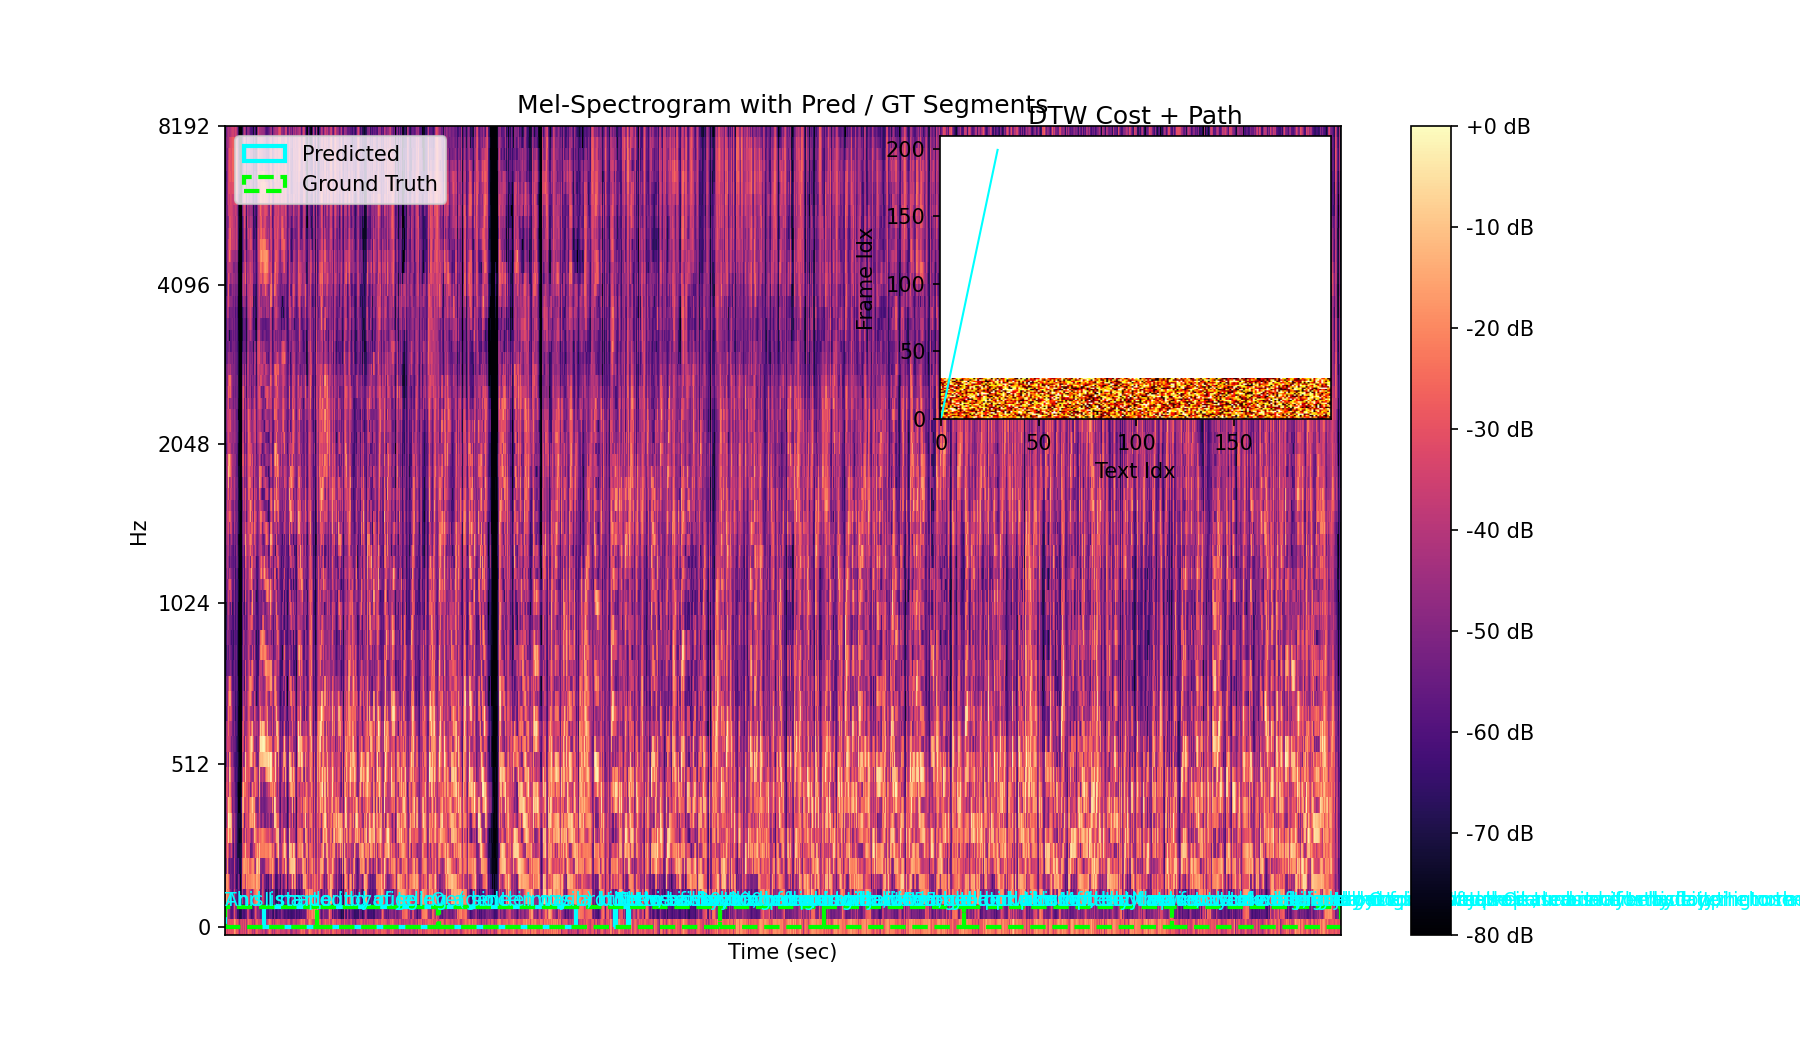
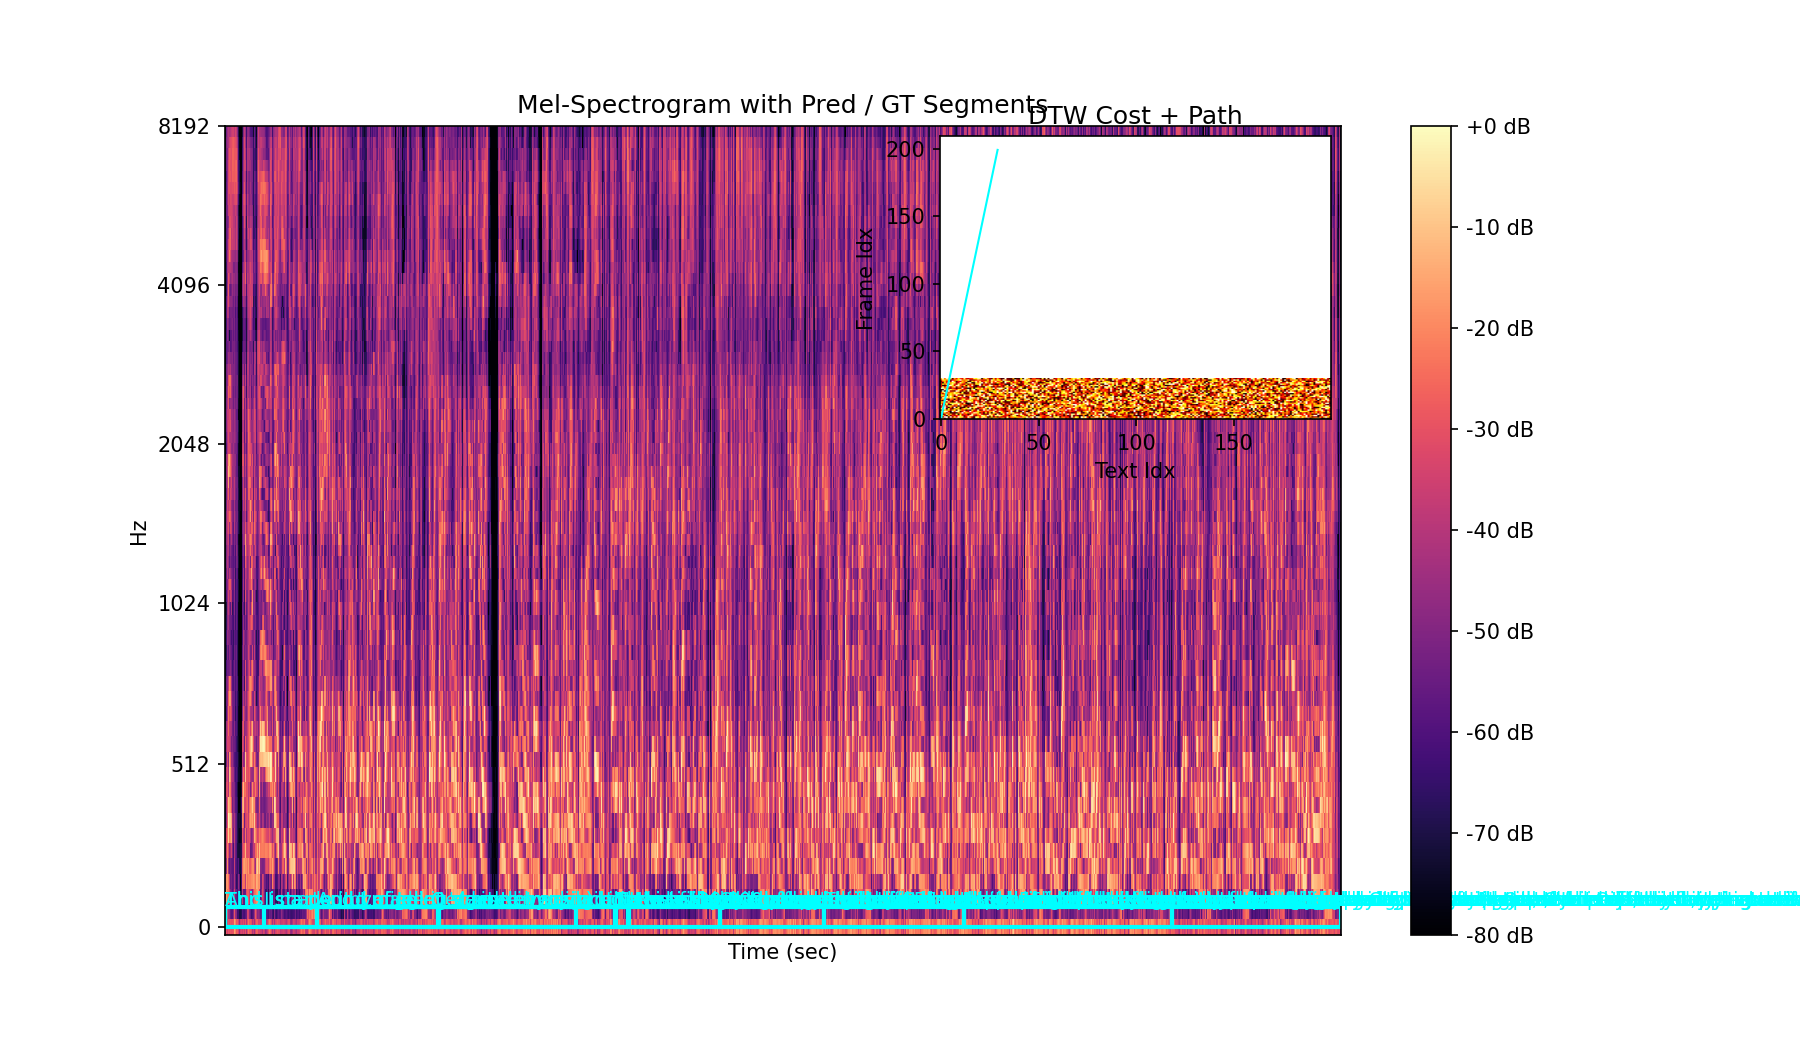
시각화 코드 및 매핑 로직 리팩토링
시각화 함수에서 반복되는 mel-bin 계산식을 변수로 변경하여 가독성을 높였고, 불필요한 주석 코드를 정리했습니다. 또한, DTW 매핑 로직에서 stride 계산 방식을 개선하여 코드의 명확성과 일관성을 강화했습니다.

diff --git a/utils/visualsize.py b/utils/visualsize.py
@@ -50,33 +50,58 @@ def visualize(audio_path, correct_srt_path, created_srt_path):
 
     # ─── 2) 예측 바 ───
     for start, end, txt in pred_segments:
+        # ax.add_patch(
+        #     plt.Rectangle(
+        #         (start, 0),
+        #         end - start,
+        #         S_dB.shape[0],
+        #         facecolor="none",
+        #         edgecolor="cyan",
+        #         linewidth=2,
+        #         label="Predicted" if txt == pred_segments[0][2] else "",
+        #     )
+        # )
+
+        mel_bins = S_dB.shape[0]  # y축이 mel-bin index
         ax.add_patch(
             plt.Rectangle(
                 (start, 0),
                 end - start,
-                S_dB.shape[0],
+                mel_bins,
                 facecolor="none",
                 edgecolor="cyan",
                 linewidth=2,
-                label="Predicted" if txt == pred_segments[0][2] else "",
             )
         )
         ax.text(start, S_dB.shape[0] + 2, txt, color="cyan", fontsize=9)
 
     # ─── 3) (옵션) 정답 바 ───
     for start, end, txt in gt_segments:
+        # ax.add_patch(
+        #     plt.Rectangle(
+        #         (start, 0),
+        #         end - start,
+        #         S_dB.shape[0],
+        #         facecolor="none",
+        #         edgecolor="lime",
+        #         linestyle="--",
+        #         linewidth=2,
+        #         label="Ground Truth" if txt == gt_segments[0][2] else "",
+        #     )
+        # )
+
+        mel_bins = S_dB.shape[0]  # y축이 mel-bin index
         ax.add_patch(
             plt.Rectangle(
                 (start, 0),
                 end - start,
-                S_dB.shape[0],
+                mel_bins,
                 facecolor="none",
-                edgecolor="lime",
-                linestyle="--",
+                edgecolor="cyan",
                 linewidth=2,
-                label="Ground Truth" if txt == gt_segments[0][2] else "",
             )
         )
+        ax.text(start, S_dB.shape[0] + 2, txt, color="cyan", fontsize=9)
 
     # ─── 4) DTW Cost Matrix 하단 인셋 ───
     from mpl_toolkits.axes_grid1.inset_locator import inset_axes

diff --git a/srt_utils/dtw_to_srt.py b/srt_utils/dtw_to_srt.py
@@ -13,11 +13,15 @@ def run_dtw_to_srt(
     n_sentences = len(sentences)
 
     # 2. 문장별로 매핑된 오디오 프레임들 추출
-    duration = waveform.shape[-1] / sample_rate  # 전체 길이(초)
-    hidden_len = audio_embedding.shape[0]  # Wav2Vec2 프레임 수
-    true_stride = duration / hidden_len  # ✓ 보정된 stride
+    # duration = waveform.shape[-1] / sample_rate  # 전체 길이(초)
+    # hidden_len = audio_embedding.shape[0]  # Wav2Vec2 프레임 수
+    # true_stride = duration / hidden_len  # ✓ 보정된 stride
     # frame_to_time = lambda idx: idx * 0.02  # 20ms per frame (Wav2Vec2 default stride)
-    frame_to_time = lambda idx: idx * true_stride
+    # frame_to_time = lambda idx: idx * true_stride
+
+    duration = waveform.shape[-1] / sample_rate
+    hidden_len = audio_embedding.shape[0]
+    stride = duration / hidden_len  # 반드시 실측으로 구하기
 
     # DTW 매핑 후
     mapped_frames_per_sentence = [[] for _ in range(n_sentences)]
@@ -29,8 +33,8 @@ def run_dtw_to_srt(
         if not frames:
             continue
         ss, ee = np.percentile(frames, [10, 90])  # ③ 꼬리 자르기
-        start_sec = ss * true_stride
-        end_sec = ee * true_stride
+        start_sec = ss * stride
+        end_sec = ee * stride
         # 최소 길이 보장 & 앞뒤 겹침 방지 루틴 ...
         sentence_times.append((start_sec, end_sec))
 
